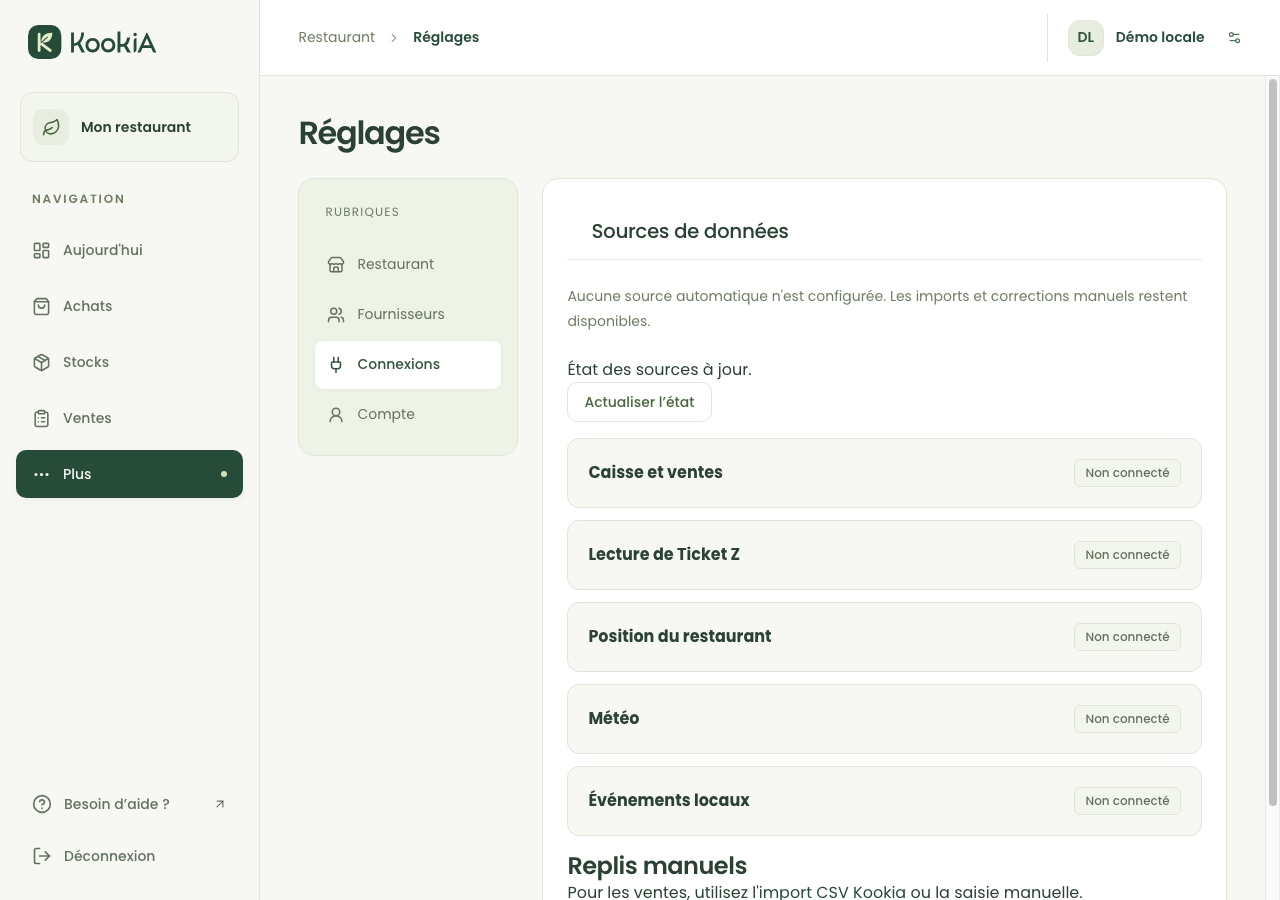
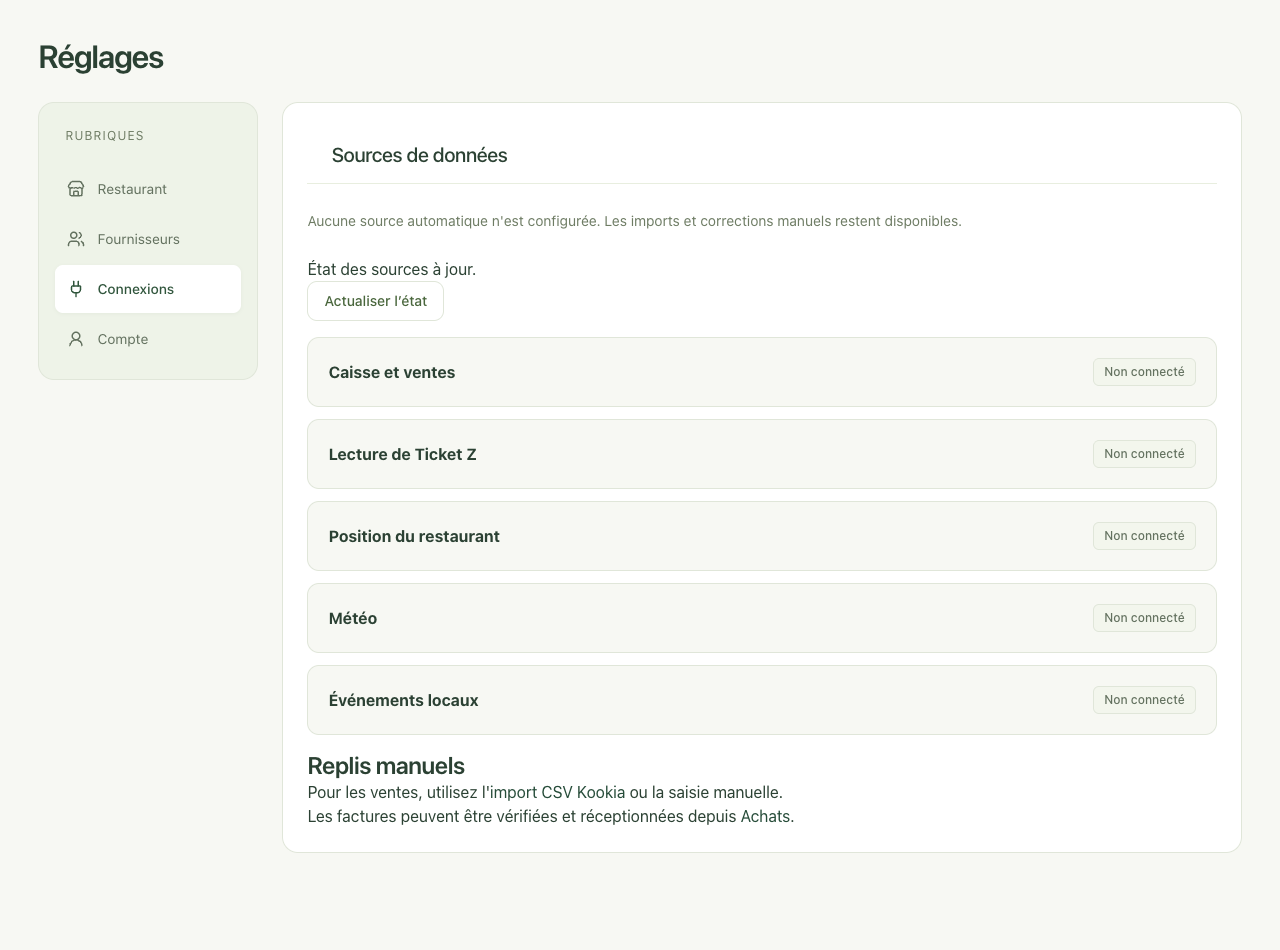
fix: keep settings labels visible on mobile

diff --git a/src/pages/Settings.css b/src/pages/Settings.css
@@ -141,21 +141,20 @@
   }
 
   .settings-nav {
-    flex-direction: row;
-    flex-wrap: wrap;
+    display: grid;
+    grid-template-columns: repeat(var(--number-4), var(--unit-1fr));
     gap: var(--spacing-xs);
   }
 
   .nav-tab {
-    flex: var(--number-1);
-    min-width: fit-content;
+    min-width: var(--number-0);
     padding: var(--spacing-sm);
-    justify-content: center;
+    justify-content: flex-start;
     font-size: var(--font-size-sm);
   }
 
   .nav-tab span {
-    display: none;
+    display: inline;
   }
 
   .nav-tab svg {
@@ -181,6 +180,10 @@
   .settings-container {
     padding: var(--spacing-sm);
     gap: var(--spacing-sm);
+  }
+
+  .settings-nav {
+    grid-template-columns: repeat(var(--number-2), var(--unit-1fr));
   }
 
   .nav-tab {
